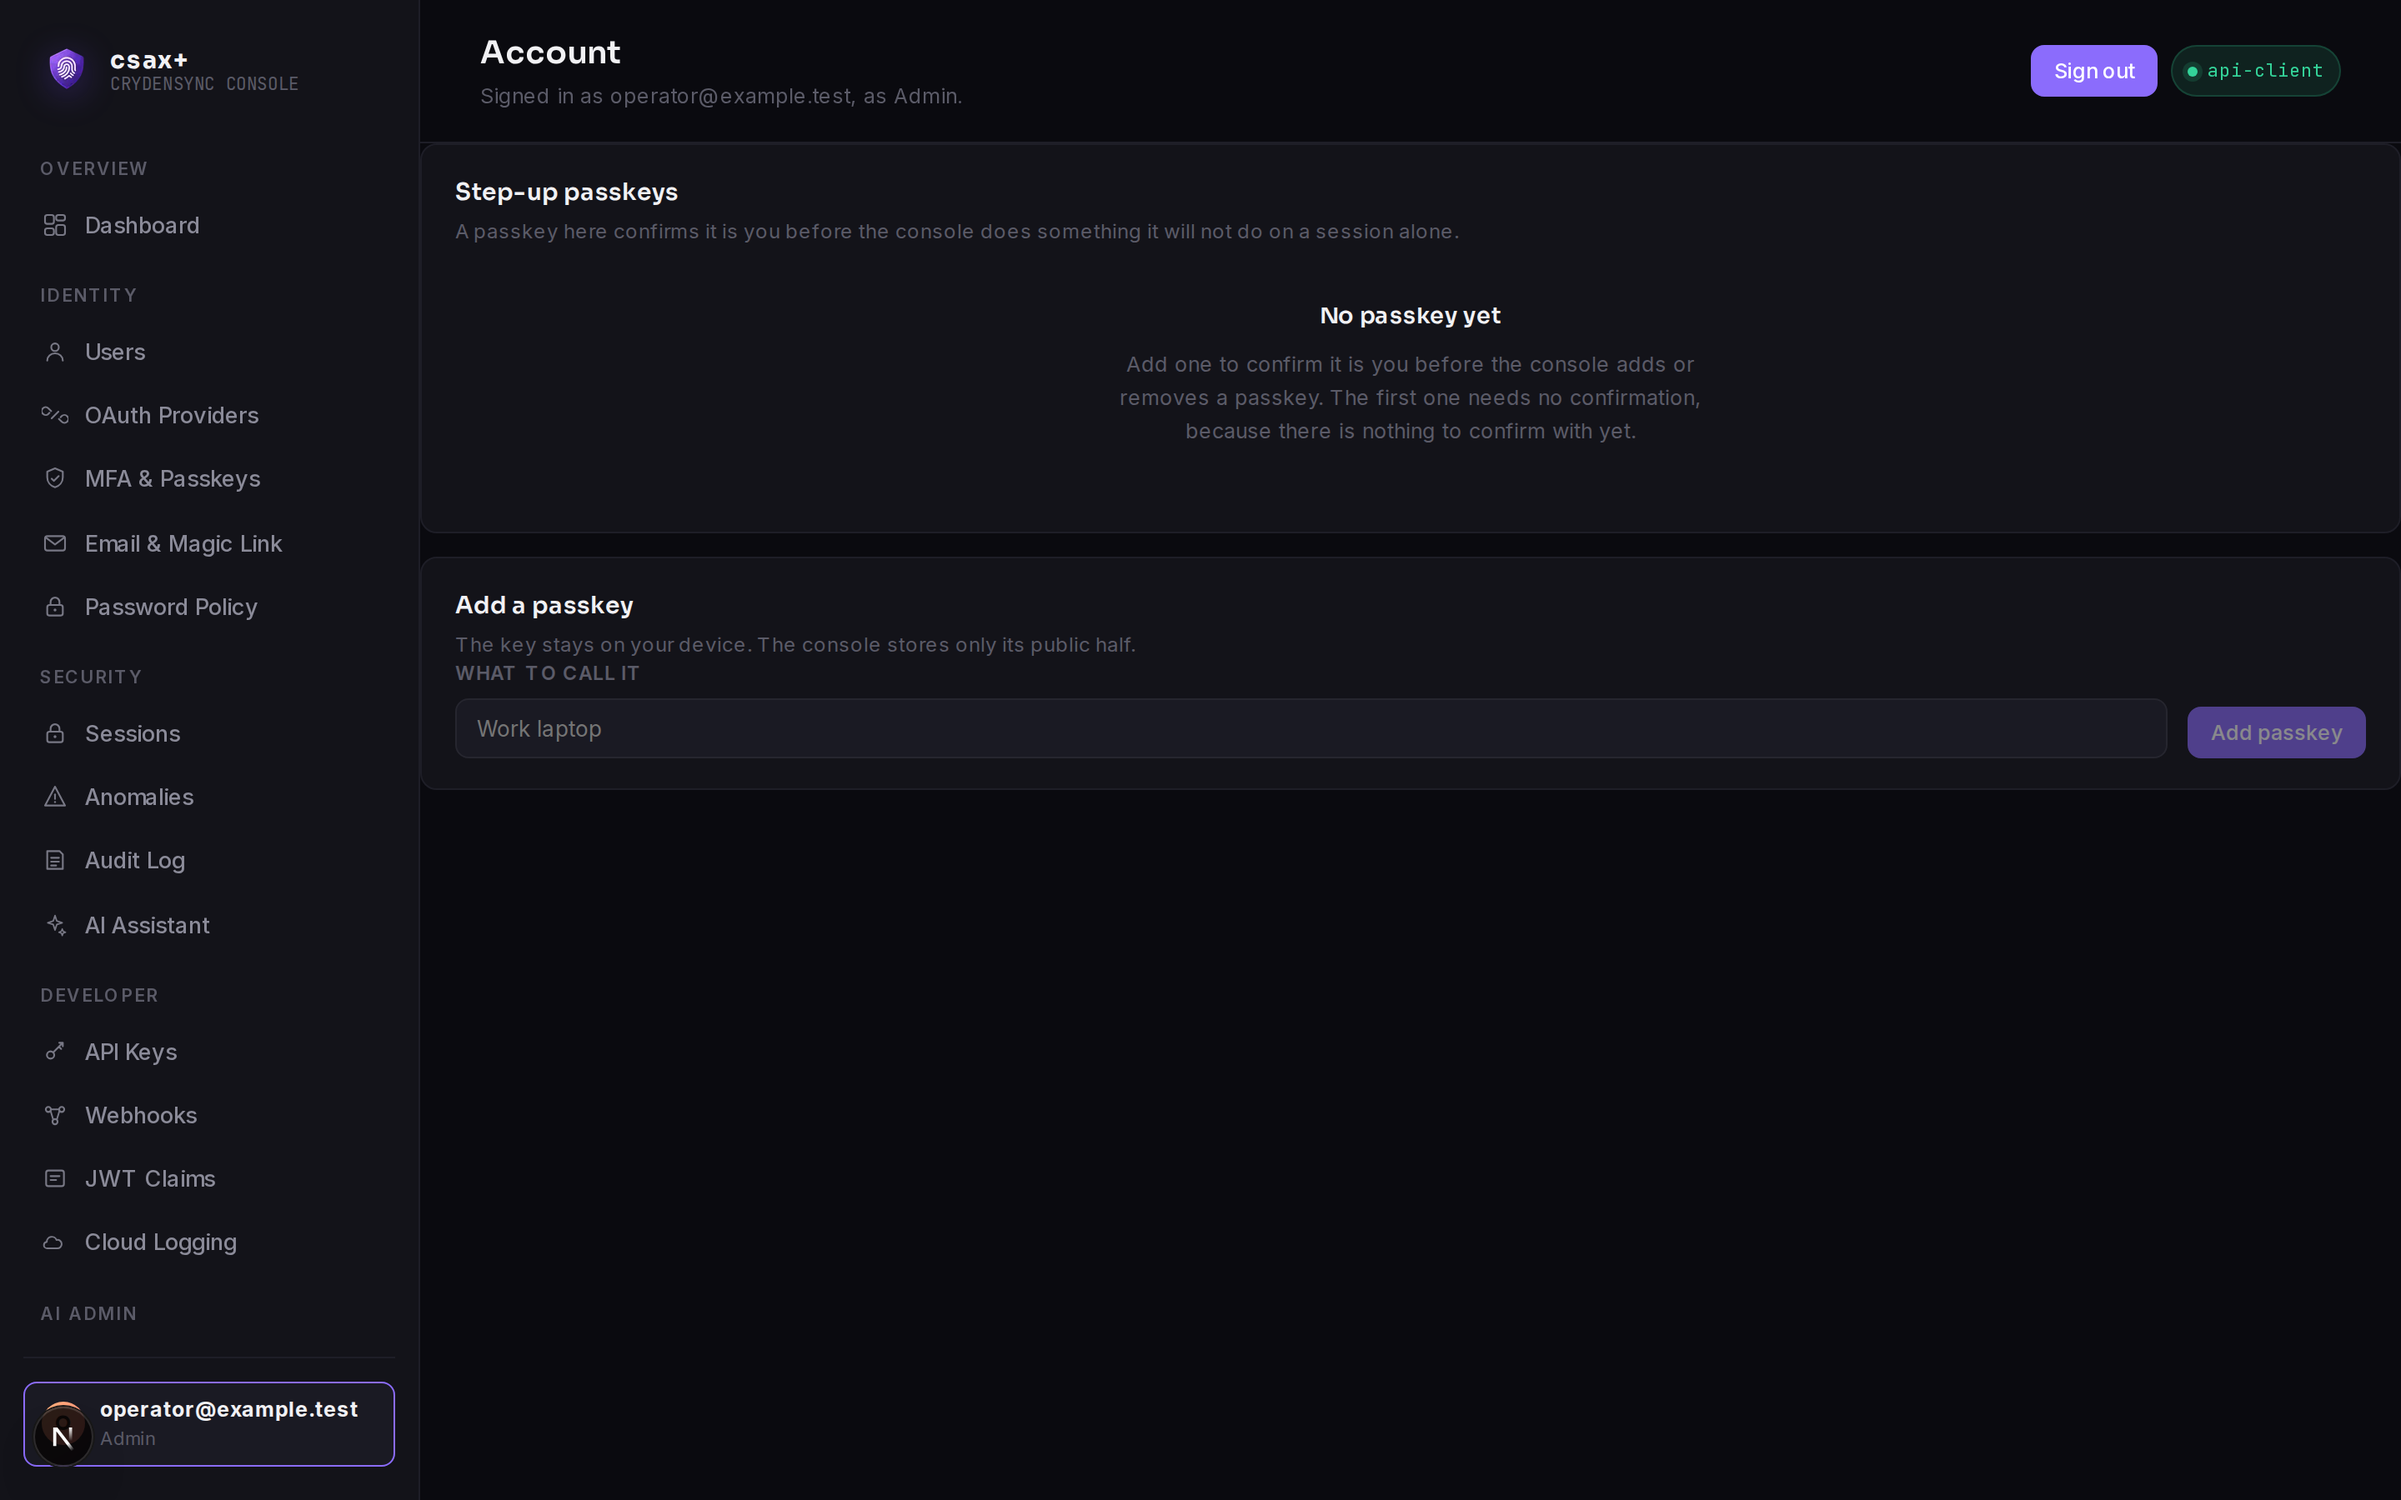
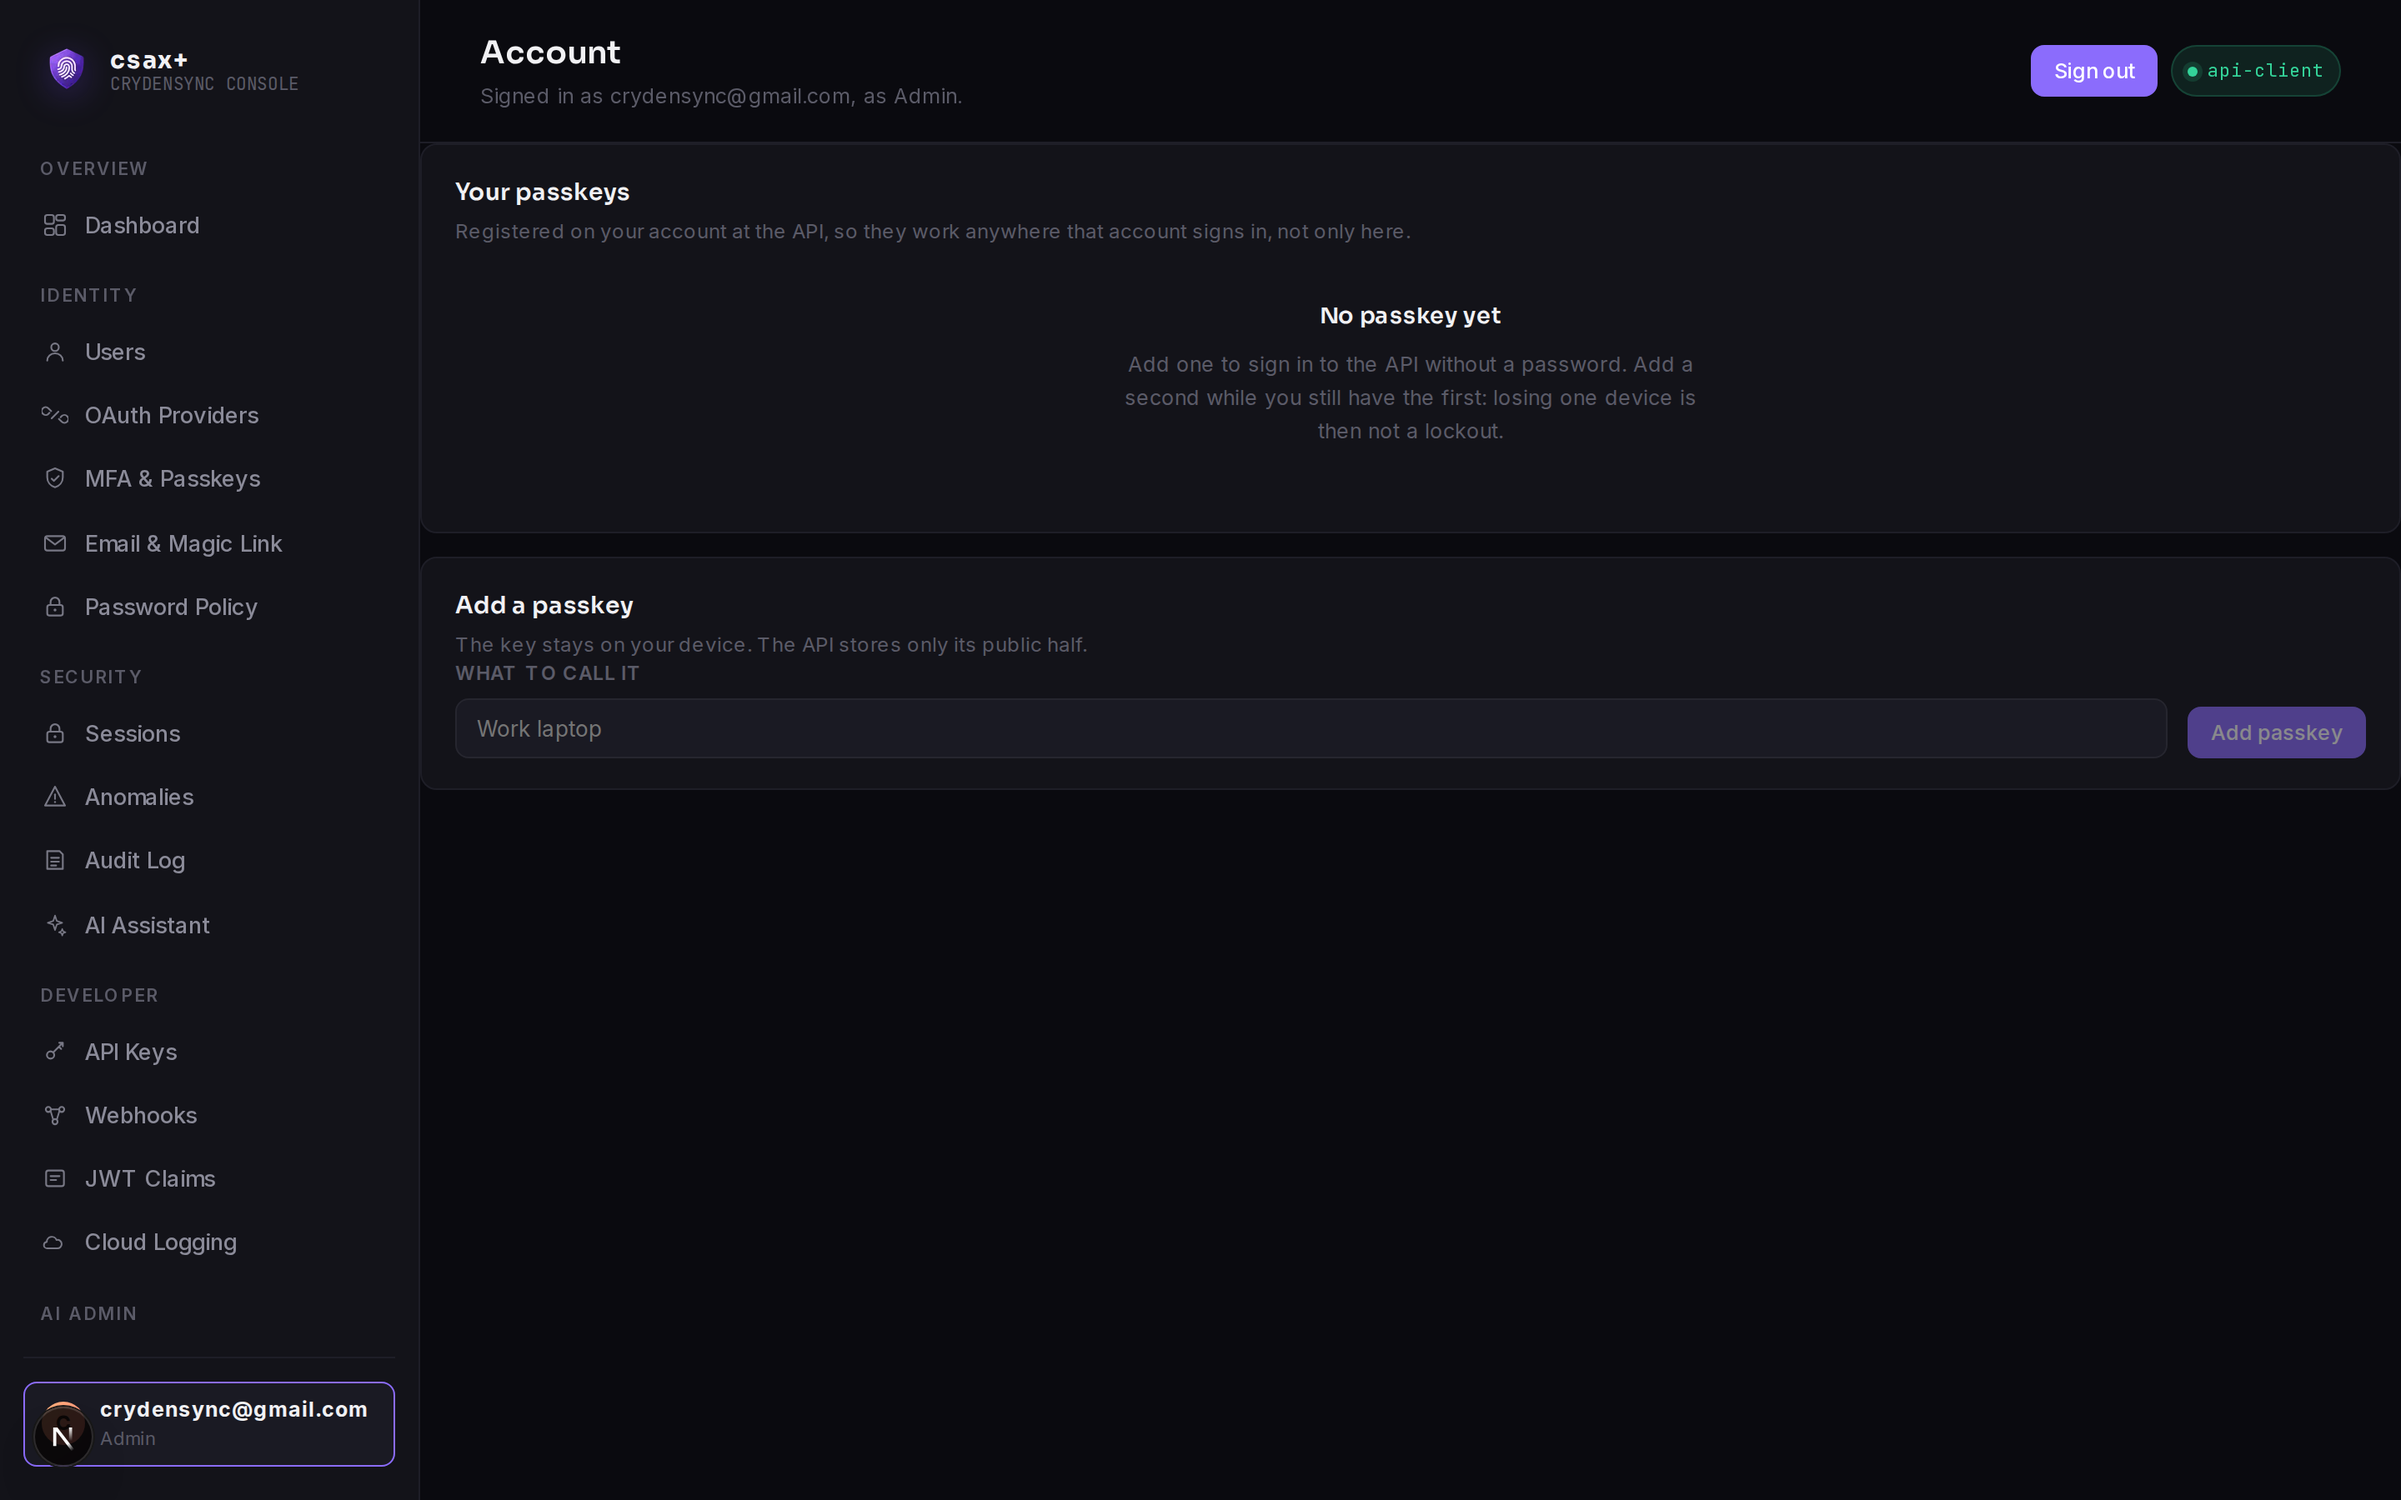
docs(screenshots): record the passkey-paused sign-in trap

diff --git a/tests/screenshots/capture.spec.ts b/tests/screenshots/capture.spec.ts
@@ -78,6 +78,13 @@ test.describe("guide screenshots", () => {
     const password = localSetting("CSAX_SCREENSHOT_PASSWORD");
 
     if (email !== undefined && password !== undefined) {
+      // The credentials name an operator account on the API. If that account has
+      // a passkey enrolled, the API pauses the sign-in at the second factor and
+      // a headless run cannot finish it: the enrolled credential's private key
+      // never left the authenticator that made it (the API stores only the
+      // public half), so no virtual authenticator can answer for it. A correct
+      // password on an account without a passkey is a complete sign-in, which
+      // is the account these credentials should name.
       await page.goto("/login");
       await settle(page);
       await page.getByLabel("Email").fill(email);
@@ -153,8 +160,9 @@ test.describe("guide screenshots", () => {
     // The operator's own screen, and the only one in the console reached from
     // something other than the sidebar's list of screens: the chip at its foot.
     // Its list is read after hydration like the two above, so it gets the same
-    // wait. Shot with a minted cookie it shows the empty state, which is the
-    // state a deployment is in until somebody enrols their first passkey.
+    // wait. The list comes from the operator's account at the API, so a minted
+    // cookie (whose API tokens are placeholders) lands on the screen's own
+    // refusal state, which is still a state the console really reaches.
     await page.goto("/account");
     await settle(page);
     await expect(page.getByRole("heading", { name: "Account" })).toBeVisible();
